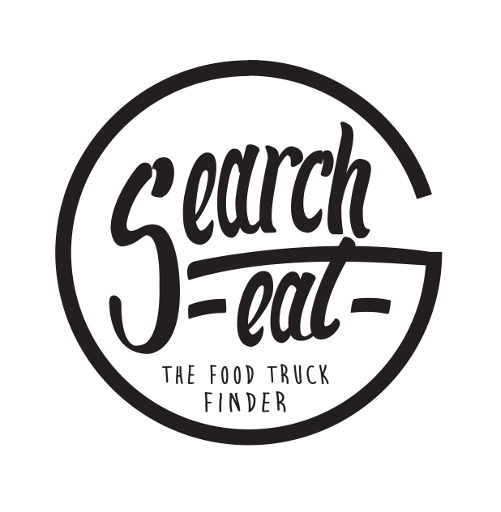
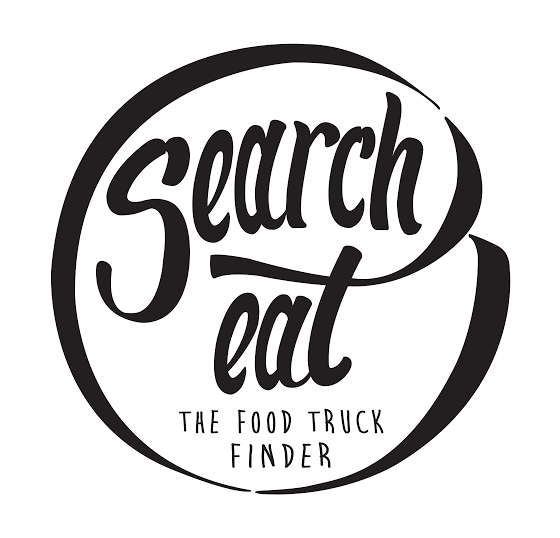
imagens das markers novas

Changed region(s): [[0.0898, 0.0625, 0.9281, 0.9375], [0.6886, 0.5625, 0.7784, 0.625]]

diff --git a/client/partials/guidance.tpl.html b/client/partials/guidance.tpl.html
@@ -5,7 +5,7 @@
 	<!-- <div id="top-padding">
 	</div> -->
 	<div id="title">
-		<img src="img/searcheat_circle_2.png" />
+		<img src="img/searcheat_circle.png" />
 	</div>
 </div>
 <div id="search-box-container" class="row text-center">
